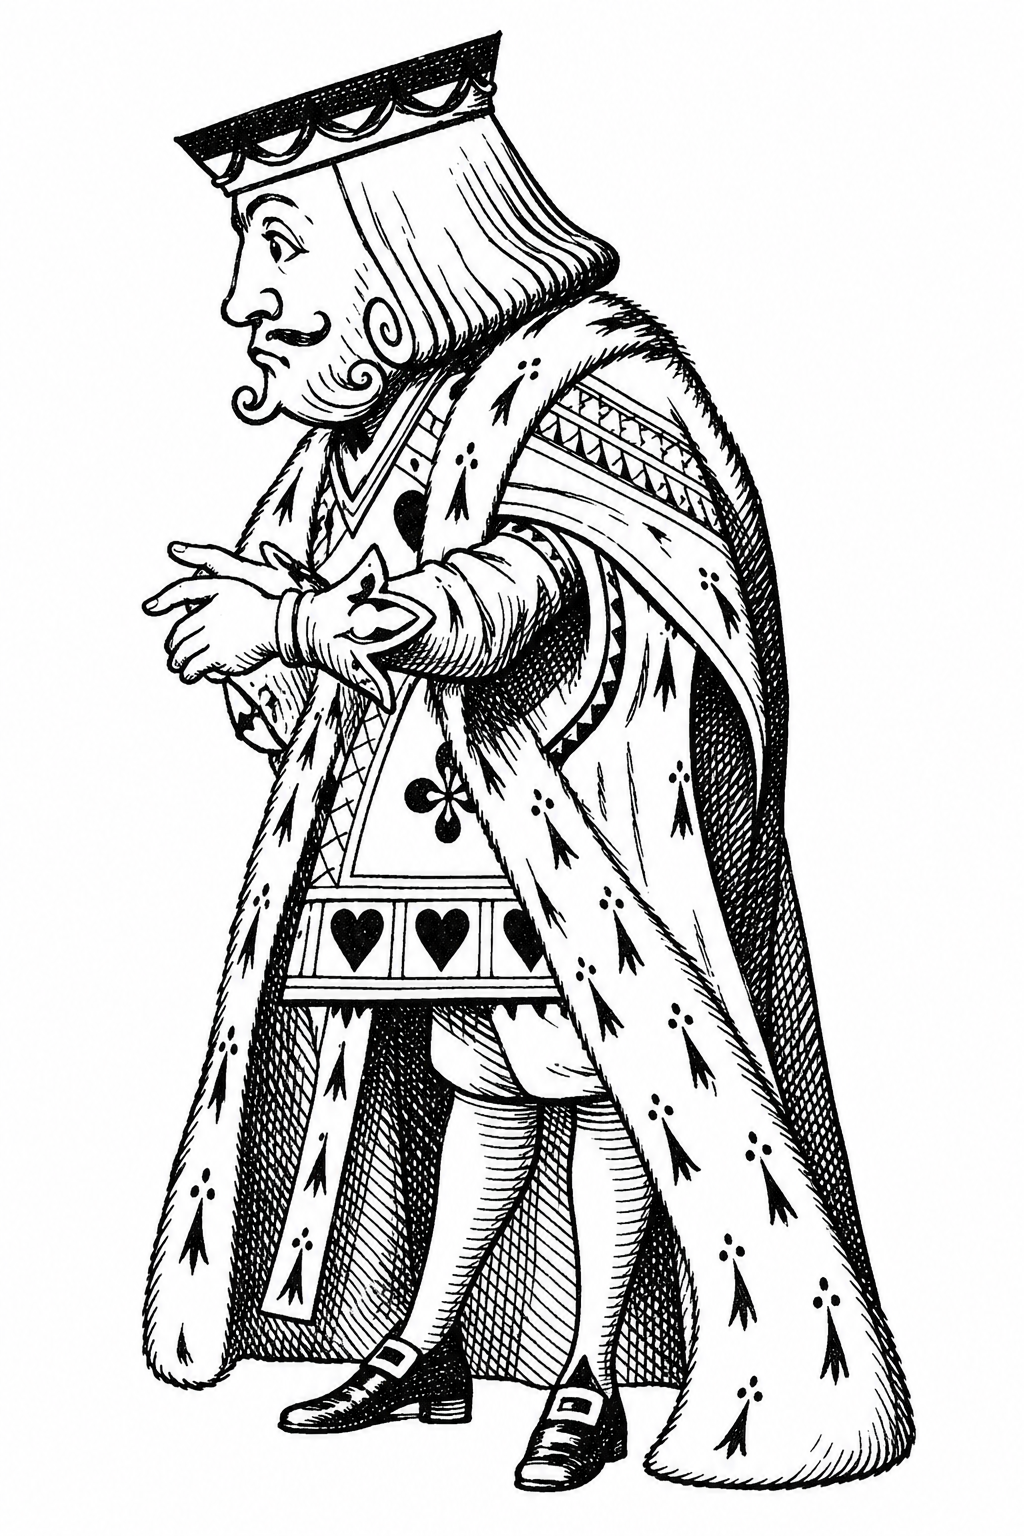
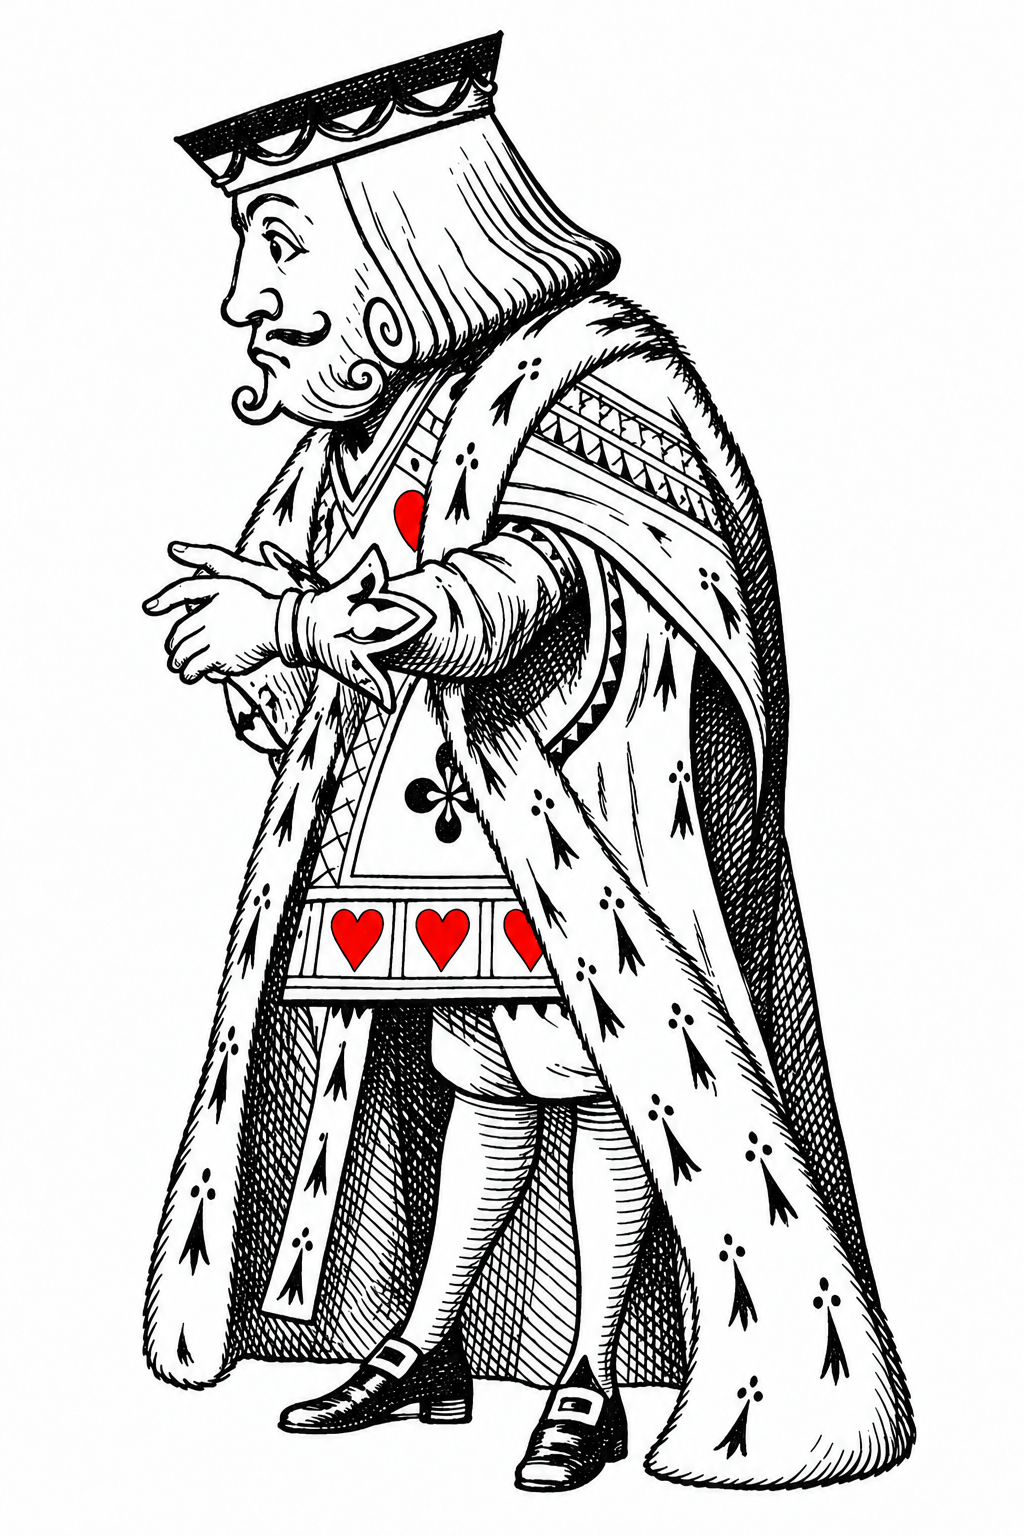
Court cards (VIII-XII): the Queen, King, Knave of Hearts and the executioner, all poses, hearts red (AI by API; tools/ch8_art.py keeps colour)
Claude-Session: https://claude.ai/code/session_01JLwjHTre9qSRtmM6Ke648R

diff --git a/src/main.js b/src/main.js
@@ -64,7 +64,7 @@ async function main() {
     'hall/floor', 'hall/lamp', 'hall/curtain', 'hall/door_frame', 'hall/door_leaf',
     'props/key', 'props/bottle', 'props/cake', 'props/box', 'props/fan', // tools/small_props.py
     'ch1/leaf_heap', 'ch1/alice_land', 'ch1/garden', 'ch1/rabbit_run_away', 'ch1/rabbit_watch', 'ch1/rabbit_trot',
-    'walls/shaft_side', 'walls/passage', 'walls/passage_floor', 'walls/passage_ceiling', 'walls/hall', 'walls/hall_ceiling', 'ch5/caterpillar_sit', 'ch6/cheshire_bough', 'ch6/cheshire_bough_empty', 'ch6/cheshire_grin', 'ch6/cheshire_paw', ...['hatter_sit_stare', 'hatter_sit_riddle', 'hatter_sit_watch', 'hatter_cup', 'hatter_pale', 'hatter_bite', 'hatter_tremble', 'hatter_knee', 'hatter_run', 'marchhare_sit', 'marchhare_dip', 'dormouse_sleep', 'dormouse_talk'].map((n) => `ch7/${n}`), 'vignettes/axis', 'vignettes/pigs', 'ch6/cheshire_hearth', ...['fish_footman', 'frog_footman', 'frog_footman_sit', 'footmen_bow', 'cook_stir', 'cook_throw', 'baby_starfish', 'baby_snout', 'pig_trot', 'kitchen_back', 'kitchen_side', 'little_house', 'march_hare_house', ...['irons', 'saucepan', 'saucepan2', 'pan', 'plate', 'plate2', 'plate3', 'dish'].map((n) => `thrown_${n}`)].map((n) => `ch6/${n}`),
+    'walls/shaft_side', 'walls/passage', 'walls/passage_floor', 'walls/passage_ceiling', 'walls/hall', 'walls/hall_ceiling', 'ch5/caterpillar_sit', 'ch6/cheshire_bough', 'ch6/cheshire_bough_empty', 'ch6/cheshire_grin', 'ch6/cheshire_paw', ...['queen_stand', 'queen_point', 'queen_flush', 'queen_stamp', 'queen_folded', 'queen_specs', 'queen_purple', 'king_stand', 'king_judge', 'king_judge_specs', 'king_judge_fold', 'king_judge_point', 'king_judge_pale', 'knave_carry', 'knave_stand', 'knave_chains', 'executioner'].map((n) => `ch8/${n}`), ...['hatter_sit_stare', 'hatter_sit_riddle', 'hatter_sit_watch', 'hatter_cup', 'hatter_pale', 'hatter_bite', 'hatter_tremble', 'hatter_knee', 'hatter_run', 'marchhare_sit', 'marchhare_dip', 'dormouse_sleep', 'dormouse_talk'].map((n) => `ch7/${n}`), 'vignettes/axis', 'vignettes/pigs', 'ch6/cheshire_hearth', ...['fish_footman', 'frog_footman', 'frog_footman_sit', 'footmen_bow', 'cook_stir', 'cook_throw', 'baby_starfish', 'baby_snout', 'pig_trot', 'kitchen_back', 'kitchen_side', 'little_house', 'march_hare_house', ...['irons', 'saucepan', 'saucepan2', 'pan', 'plate', 'plate2', 'plate3', 'dish'].map((n) => `thrown_${n}`)].map((n) => `ch6/${n}`),
     ...['duchess_nurse', 'duchess_toss', 'duchess_fling', 'duchess9_arm', 'duchess9_tremble', 'duchess9_run'].map((n) => `ch6/${n}`),
     ...['sit', 'sob', 'count', 'hide', 'dance', 'sing', 'yawn'].map((n) => `ch9/mockturtle_${n}`),
     ...['sit', 'asleep', 'walk', 'paws', 'hide', 'dance', 'bound'].map((n) => `ch9/gryphon_${n}`), 'vignettes/dinah', 'vignettes/bats', 'vignettes/stairs', 'vignettes/globe', 'vignettes/histories', 'vignettes/poker', 'vignettes/knife', 'vignettes/poison', 'vignettes/candle', 'vignettes/telescope', 'vignettes/croquet', // tools/walls.py // tools/ch1_art.py
@@ -255,19 +255,15 @@ async function main() {
     // Chapter VIII placeholders: the cards (props8.js), coloured like real cards (owner, 2026-10-11).
     ...Object.fromEntries([['two', 2], ['five', 5], ['seven', 7]].map(([name, rank]) => [name, new Puppet(Object.fromEntries(
       ['stand', 'paint', 'bow', 'kneel', 'run'].map((p) => [p, drawn(card({ suit: 'spades', rank }, p), 0.28)])), 0.28)])),
-    queen: new Puppet(Object.fromEntries([...['stand', 'point', 'flush', 'stamp', 'folded'].map((p) => [p, drawn(card({ suit: 'hearts', rank: 'queen' }, p), 0.32)]),
-      ['specs', drawn(card({ suit: 'hearts', rank: 'queen', specs: true }, 'stand'), 0.32)], ['purple', drawn(card({ suit: 'hearts', rank: 'queen', face: 'purple' }, 'point'), 0.32)]]), 0.32),
+    // The court cards (AI drawings with their hearts red, tools/ch8_art.py; px = height in source pixels).
+    queen: new Puppet(Object.fromEntries([['stand', 1509], ['point', 1460], ['flush', 1507], ['stamp', 1494], ['folded', 1509], ['specs', 1508], ['purple', 1509]]
+      .map(([p, px]) => [p, art(`ch8/queen_${p}`, 0.34 * px / 1509)])), 0.34),
     // The King: as judge in Chapters XI and XII, his crown over his wig; spectacles; arms folded; pale.
-    king: new Puppet({
-      stand: drawn(card({ suit: 'hearts', rank: 'king' }, 'stand'), 0.32),
-      judge: drawn(card({ suit: 'hearts', rank: 'king', wig: true }, 'stand'), 0.32),
-      judgeSpecs: drawn(card({ suit: 'hearts', rank: 'king', wig: true, specs: true }, 'stand'), 0.32),
-      judgeFold: drawn(card({ suit: 'hearts', rank: 'king', wig: true }, 'folded'), 0.32),
-      judgePoint: drawn(card({ suit: 'hearts', rank: 'king', wig: true }, 'point'), 0.32),
-      judgePale: drawn(card({ suit: 'hearts', rank: 'king', wig: true, face: 'pale' }, 'stand'), 0.32),
-    }, 0.32),
-    knave: new Puppet({ carry: drawn(card({ suit: 'hearts', rank: 'knave' }, 'carry'), 0.3), stand: drawn(card({ suit: 'hearts', rank: 'knave' }, 'stand'), 0.3), chains: drawn(card({ suit: 'hearts', rank: 'knave', chains: true }, 'stand'), 0.3) }, 0.3),
-    executioner: new Puppet({ axe: drawn(card({ suit: 'spades', rank: 'executioner' }, 'axe'), 0.32) }, 0.32),
+    king: new Puppet(Object.fromEntries([['stand', 'king_stand', 1467], ['judge', 'king_judge', 1475], ['judgeSpecs', 'king_judge_specs', 1485],
+      ['judgeFold', 'king_judge_fold', 1473], ['judgePoint', 'king_judge_point', 1471], ['judgePale', 'king_judge_pale', 1484]]
+      .map(([p, n, px]) => [p, art(`ch8/${n}`, 0.34 * px / 1475)])), 0.34),
+    knave: new Puppet(Object.fromEntries([['carry', 1432], ['stand', 1429], ['chains', 1429]].map(([p, px]) => [p, art(`ch8/knave_${p}`, 0.31 * px / 1430)])), 0.31),
+    executioner: new Puppet({ axe: art('ch8/executioner', 0.33) }, 0.33),
     // Chapter IX placeholders (props9.js).
     // The Gryphon (tools/ch9_art.py): the upright drawings scaled by their px; the wide ones by eye.
     gryphon: new Puppet(Object.fromEntries([['sit', 0.38, false], ['paws', 0.38 * 1495 / 1519, false], ['hide', 0.38 * 1507 / 1519, false],

diff --git a/src/scenes/evidence.js b/src/scenes/evidence.js
@@ -206,7 +206,7 @@ export const waking = {
     const ghosts = [
       ghost(mouseWalk(), 0.3, -2.3, -2.2, T.mouse, reality(0.9)),
       ghost(ai['ch7/hatter_sit_stare'], 0.9, -0.9, -2.9, T.teacups, T.bells), ghost(ai['ch7/marchhare_sit'], 0.85, -0.3, -3.0, T.teacups, T.bells), ghost(teapot(), 0.35, -0.6, -2.6, T.teacups, T.bells),
-      ghost(card({ suit: 'hearts', rank: 'queen' }, 'point'), 1.1, 0.5, -2.6, T.queen, reality(0.3)),
+      ghost(ai['ch8/queen_point'], 1.1, 0.5, -2.6, T.queen, reality(0.3)),
       ghost(ai['ch6/duchess_nurse'], 1.1, -4.3, -2.5, T.pig, reality(0.55)), ghost(ai['ch6/baby_snout'], 0.35, -3.9, -2.3, T.pig, reality(0.55)),
       ghost(ai['ch9/gryphon_walk'], 0.75, -1.6, -3.3, T.gryphon, reality(0.6)),
       ghost(lizard('stand'), 0.5, -1.9, -2.1, T.gryphon + 1.5, reality(0.7)),

diff --git a/tools/ch8_art.py b/tools/ch8_art.py
@@ -1,0 +1,63 @@
+"""The court cards (Chapters VIII-XII): the Queen, King, Knave of Hearts and the executioner.
+
+They are drawn with their hearts already flat red (and the Queen's and King's face flushes in
+colour), so this cut-out keeps colour: ink and white are paper-tinted as usual, coloured pixels
+keep their colour, and playing-card red is snapped to the game's suit red (SPOT.suitRed).
+Prints each figure's height in source pixels (px) for scaling poses alike.
+
+Usage: python3 tools/ch8_art.py   -> public/art/ai/ch8/<name>.webp
+"""
+import os
+
+import numpy as np
+from PIL import Image, ImageFilter
+from scipy import ndimage as ndi
+
+OUT = "public/art/ai/ch8"
+PAPER = np.array([0xEF, 0xE9, 0xDA], np.float32)
+SUIT_RED = np.array([0xC8, 0x22, 0x22], np.float32)
+NAMES = ["queen_stand", "queen_point", "queen_flush", "queen_stamp", "queen_folded", "queen_specs", "queen_purple",
+         "king_stand", "king_judge", "king_judge_specs", "king_judge_fold", "king_judge_point", "king_judge_pale",
+         "knave_carry", "knave_stand", "knave_chains", "executioner"]
+
+
+CRIMSON = np.array([0xA3, 0x12, 0x3A], np.float32)  # "turned crimson with fury" (SPOT.crimson)
+
+
+def cut(path, red_as=SUIT_RED):
+    rgb = np.asarray(Image.open(path).convert("RGB"), np.float32)
+    g = rgb.mean(-1)
+    mx, mn = rgb.max(-1), rgb.min(-1)
+    sat = (mx - mn) / np.maximum(mx, 1)
+    ink = (g < 225) | (sat > 0.2)
+    disk = np.hypot(*np.mgrid[-2:3, -2:3]) <= 2
+    ink = ndi.binary_closing(ink, structure=disk, border_value=0)
+    lab, _ = ndi.label(~ink)
+    border = np.unique(np.concatenate([lab[0], lab[-1], lab[:, 0], lab[:, -1]]))
+    fg = ~np.isin(lab, border[border > 0])
+    out = g[..., None] / 255.0 * PAPER
+    col = sat > 0.2
+    red = col & (rgb[..., 0] > 120) & (rgb[..., 1] < 0.55 * rgb[..., 0]) & (rgb[..., 2] < 0.55 * rgb[..., 0])
+    # Coloured pixels keep their colour, laid on the paper; card red snapped to the suit red,
+    # keeping the drawing's shading (lightness) so hatched hearts still show their lines.
+    out[col] = rgb[col] * (PAPER / 255.0)
+    shade = (rgb[..., 0] / 255.0)[..., None]
+    out[red] = (red_as * np.clip(shade * 1.15, 0.3, 1.0))[red]
+    alpha = Image.fromarray((fg * 255).astype(np.uint8)).filter(ImageFilter.GaussianBlur(0.8))
+    ys, xs = np.nonzero(fg)
+    box = (max(0, xs.min() - 2), max(0, ys.min() - 2), min(fg.shape[1], xs.max() + 3), min(fg.shape[0], ys.max() + 3))
+    img = Image.fromarray(out.astype(np.uint8), "RGB").convert("RGBA")
+    img.putalpha(alpha)
+    return img.crop(box)
+
+
+def main():
+    os.makedirs(OUT, exist_ok=True)
+    for n in NAMES:
+        img = cut(f"source/ai/{n}.png", CRIMSON if n == "queen_flush" else SUIT_RED)
+        print(f"{n}: px {img.height}")
+        img.resize((600, round(img.height * 600 / img.width)), Image.LANCZOS).save(f"{OUT}/{n}.webp", quality=90, method=6)
+
+
+if __name__ == "__main__":
+    main()

diff --git a/docs/HANDOFF.md b/docs/HANDOFF.md
@@ -22,7 +22,8 @@ Updated: 2026-10-13 (end of session 3: Chapters I–II art in, Chapter III's Ali
   - **Chapter V**: the Caterpillar (blue), also at Chapter IV's end. **Chapter VI**: the Cheshire Cat in the wood (on his bough, the empty bough, the grin alone); the Cat on the kitchen hearth (prompt 22), the Duchess (all her poses, prompts 14–16), the Footmen (10–13: the letter is in the Fish-Footman's drawing, the bow is one drawing of both), the Cook (17, 18), the baby and the pig (19–21; the snout drawing also stands for the pig in its clothes), the kitchen's back wall (23; the side walls are still drawn in code). Alice's 9 poses (2026-10-14: laughing, peeping, knocking, sneezing, jumping in terror, catching and holding the baby, carrying it, the pig, from behind under the Cat). Camera re-directed (2026-10-14): Alice in the picture at least every ~10 s (frame_report). Sets and props done 2026-10-14: the little house (also V), the March Hare's house (also VII), the kitchen's side walls (kitchen made deeper so the camera stays inside), the thrown things. Not needed: the stool (hidden by her skirts, owner), the pepper-box (in the Cook's drawing), a separate bough tree (the Cat's drawing has its bough). The Cat waving and the two thoughts done too: **Chapter VI's art is complete** apart from the extras the owner ruled out.
   - **Chapters IX–X**: the Mock Turtle, every pose (sitting, sobbing into a handkerchief, counting, hiding his face, dancing, singing, yawning; the rock taken out of the sitting drawing so he sits on the set's ledge; puppet `drop` lets his tail hang below his hooves), and the Duchess in Chapter IX (arm in arm, trembling, running). `tools/ch9_art.py` processes both and prints each drawing's height and drop. The Gryphon, every pose (sitting, asleep, walking, paws up, hiding his face, dancing, bounding), 2026-10-14. Chapter XII's dream shows the new Duchess, baby, Gryphon and Mock Turtle.
   - **Chapter VII (and XI, XII)**: the Hatter (sitting: staring, riddle, watch; as a witness: teacup, pale, biting the cup, shoes shaken off, on one knee, running), the March Hare (sitting, dipping the watch), the Dormouse (asleep, telling his story), 2026-10-14 (`tools/ch7_art.py`). The safety filter blocks some Hatter prompts at random: reword and retry.
-  - Still to generate (owner, 2026-10-14: every character): the card people (VIII–XII), Bill, the guinea-pigs, Pat, the puppy (IV), the Pigeon (V), the Owl, Magpie, Canary, crabs (III), flamingos, hedgehogs (VIII), the jurors (XI), and Alice's poses for IV, V, VII–XII.
+  - **Court cards (VIII–XII)**: the Queen (7 poses incl. crimson and purple faces), the King (standing; as judge ×5), the Knave (carrying the crown, standing, in chains), the executioner (Ace of Spades), 2026-10-14.
+  - Still to generate (owner, 2026-10-14: every character): the numbered card people (soldiers, gardeners, courtiers, children, guests, officers), Bill, the guinea-pigs, Pat, the puppy (IV), the Pigeon (V), the Owl, Magpie, Canary, crabs (III), flamingos, hedgehogs (VIII), the jurors (XI), and Alice's poses for IV, V, VII–XII.
   - The rest of the book is placeholder art drawn in code.
 - **Alice's walk**: two matching steps from one drawing (`alice_walk_pair`); keep it. **Do not generate the walk cycle** (owner, 2026-10-13: the owner will make it later; the API attempts got the arms and legs wrong).
 - **Chapter I's audio starts with 4.14 s of added silence** (owner, 2026-10-14: a 5 s hold in the theatre seat before "CHAPTER I"; `lead_silence` in ch01_words.json, all times shifted). If `tools/narration.py`/`forced_align.py` is ever rerun for Chapter I, add the silence and the shift again (original audio: `ffmpeg -ss 4.14`).
@@ -69,7 +70,7 @@ Updated: 2026-10-13 (end of session 3: Chapters I–II art in, Chapter III's Ali
 - Show the owner each new character's first picture before putting it in the game.
 
 ## When art arrives
-- **Card people** (owner, 2026-10-11): numbered cards arrive as bodies with a plain white face; print each card's pips on them in code (reuse `PIP_LAYOUT` and `suitColour` in props8.js, mapped onto the drawn face). Court cards and the court's hearts arrive with solid black suit signs: recolour the solid black heart and diamond shapes red when processing (a new step for `tools/whitecut.py` or a small tool), leaving clubs and spades black.
+- **Card people** (owner, 2026-10-11): numbered cards arrive as bodies with a plain white face; print each card's pips on them in code (reuse `PIP_LAYOUT` and `suitColour` in props8.js, mapped onto the drawn face). **Court cards by API (2026-10-14):** ask for the hearts (and diamonds) filled flat red in the drawing (if they come out black, a second pass "redraw exactly, every heart filled flat red"); `tools/ch8_art.py` keeps colour and snaps card red to the suit red. (Detecting solid black hearts in code proved unreliable.)
 - **'Direct' Tenniel figures** are being generated as AI from the plates (owner, 2026-10-11); scans are an optional upgrade.
 - The owner may send many images and say "don't process yet": just save each to `source/ai/` under its prompt's name, commit and push, until told to process.
 - Uploads that arrive mid-turn aren't saved; ask the owner to resend as a normal message. Screenshots are low quality: ask for the downloaded original.

diff --git a/PROVENANCE.md b/PROVENANCE.md
@@ -158,6 +158,7 @@ Every shipped asset is listed here with its source. AI-generated or AI-modified 
 | ai_ch6_sets | `public/art/ai/ch6/little_house.webp`, `march_hare_house.webp`, `kitchen_side.webp`, `thrown_*.webp` | AI | Chapter VI prompts 25, 32, 33 and the kitchen's side wall; originals `source/ai/little_house.png` (door from Tenniel's plate 6.1, `source/plates/tenniel_w06-1_door_only.png`), `march_hare_house.png`, `kitchen_side.png`, `thrown_things.png` | OpenAI gpt-image-2.5-sunburst via the API (generated by Claude Code, 2026-10-14) | Whole images generated. Cut out; the thrown things split into pieces (`tools/ch6_art.py`). Used in Chapters V, VI and VII. | 2026-10-14 | Owner (approved), Claude Code (generated, processed) |
 | ai_ch6_last | `public/art/ai/ch6/cheshire_paw.webp`, `public/art/ai/vignettes/axis.webp`, `pigs.webp` | AI | Chapter VI prompt 29 (the Cat waving, redrawn from `source/ai/cheshire_bough.png` on the same canvas) and the chapter's two thoughts; originals `source/ai/cheshire_paw.png`, `vignette_axis.png`, `vignette_pigs.png` | OpenAI gpt-image-2.5-sunburst via the API (generated by Claude Code, 2026-10-14) | Whole images generated. Cut out on the full canvas / fitted to the thought oval (`tools/ch6_art.py`). Used in Chapter VI. | 2026-10-14 | Owner (approved), Claude Code (generated, processed) |
 | ai_ch7_tea_party | `public/art/ai/ch7/*.webp` (the Hatter ×9, the March Hare ×2, the Dormouse ×2) | AI | Chapter VII prompts (the Hatter, March Hare, Dormouse) and Chapter XI's Hatter; first drawings `source/ai/hatter_stand.png`, `marchhare_stand.png`, `dormouse_sleep.png` from Tenniel's plates 7.1–7.3 cropped to each (`source/plates/tenniel_w07-*_only.png`), the other poses from those | OpenAI gpt-image-2.5-sunburst via the API (generated by Claude Code, 2026-10-14) | Whole images generated. Cut out (`tools/ch7_art.py`). Used in Chapters VII, XI and XII. | 2026-10-14 | Owner (approved), Claude Code (generated, processed) |
+| ai_court_cards | `public/art/ai/ch8/*.webp` (the Queen ×7, the King ×6, the Knave ×3, the executioner) | AI | Chapter VIII–XII prompts; first drawings `source/ai/queen_stand.png`, `king_stand.png` from Tenniel's plates 8.2 and 8.4 cropped to each (`source/plates/tenniel_w08-*_only.png`), the other poses from those; hearts filled red and face flushes coloured by the model (a second pass where needed) | OpenAI gpt-image-2.5-sunburst via the API (generated by Claude Code, 2026-10-14) | Whole images generated. Cut out keeping colour, card red snapped to the suit red (`tools/ch8_art.py`). Used in Chapters VIII–XII. | 2026-10-14 | Owner (approved), Claude Code (generated, processed) |
 | ai_mockturtle_sit | `public/art/ai/ch9/mockturtle_sit.webp` | AI | Chapter IX prompt 14; original in `source/ai/mockturtle_ledge.png`, from Tenniel's plate 9.3 cropped to the Mock Turtle (`source/plates/tenniel_w09-3_mock_turtle_only.png`); the rock then removed in a second generation (`source/ai/mockturtle_ledge_norock.png`) | OpenAI gpt-image-2.5-sunburst via the API (generated by Claude Code, 2026-10-14) | Whole image generated. Cut out from white (`tools/ch9_art.py`). Used in Chapters IX and X (sitting). | 2026-10-14 | Owner (approved), Claude Code (generated, processed) |
 | ai_duchess_poses | `public/art/ai/ch6/duchess_toss.webp`, `duchess_fling.webp`, `duchess9_arm.webp`, `duchess9_tremble.webp`, `duchess9_run.webp` | AI | Chapter VI prompts 15, 16; Chapter IX prompts 6, 7 (two images); originals in `source/ai/` under the same names, generated from `source/ai/duchess_nurse.png` with Tenniel's plates 6.2 and 9.1 cropped to the Duchess (`source/plates/tenniel_w06-2_duchess_only.png`, `tenniel_w09-1_duchess_only.png`) | OpenAI gpt-image-2.5-sunburst via the API (generated by Claude Code, 2026-10-14) | Whole images generated. Cut out from white (`tools/ch9_art.py`). Used in Chapters VI (lullaby, flinging the baby, hurrying out) and IX (arm in arm, trembling, running away). | 2026-10-14 | Owner (approved), Claude Code (generated, processed) |
 | ai_mockturtle_poses | `public/art/ai/ch9/mockturtle_sob.webp`, `_count`, `_hide`, `_dance`, `_sing`, `_yawn` | AI | Chapter IX prompt 15 (three images); Chapter X prompts 6, 7 (one image each of dancing, singing, yawning); originals in `source/ai/` under the same names, generated from `source/ai/mockturtle_ledge_norock.png` with Tenniel's plates 9.3 and 10.1 cropped to the Mock Turtle (`source/plates/tenniel_w09-3_mock_turtle_only.png`, `tenniel_w10-1_mock_turtle_only.png`) | OpenAI gpt-image-2.5-sunburst via the API (generated by Claude Code, 2026-10-14) | Whole images generated. Cut out from white (`tools/ch9_art.py`). Used in Chapters IX and X. | 2026-10-14 | Owner (approved), Claude Code (generated, processed) |

diff --git a/docs/ASSETS_MASTER.md b/docs/ASSETS_MASTER.md
@@ -1,7 +1,7 @@
 # Master Asset List
 Generated by `tools/assets_master.py` from the chapter lists. **Don't edit by hand**: change the chapter list in `docs/ART_PROMPTS.md` (and the reasons in `docs/CHAPTER_NN_ASSETS.md`), then run the script.
 
-**Progress:** 146 of 371 images received. A box is ticked when a file with that name is in `source/ai/`.
+**Progress:** 151 of 371 images received. A box is ticked when a file with that name is in `source/ai/`.
 
 ## How to use this document
 1. Use **one ChatGPT conversation** for everything, so the style and the characters stay the same.
@@ -442,9 +442,9 @@ Background and sources: [CHAPTER_08_ASSETS.md](CHAPTER_08_ASSETS.md). Same conve
 - [ ] **13.** `royal_child.png`: "Two small royal card children jumping merrily along hand in hand. Card faces plain white." (The game prints the hearts, ace to ten.)
 - [ ] **14.** `knave.png` (8.2): "The Knave of Hearts from this plate, carrying the King's crown on a velvet cushion."
 - [ ] **15.** `king.png` (8.2, 8.4): "The King of Hearts from these plates, full figure."
-- [ ] **16.** `queen_point.png` (8.2): "The Queen of Hearts from this plate, pointing and shouting 'Off with her head!'"
-- [ ] **17.** `queen_stamp.png`: "The same Queen stamping about in a furious passion, shouting."
-- [ ] **18.** `executioner.png` (8.4): "The executioner from this plate, a card with a big axe. He is the Ace of Spades: one large ornate spade in the middle of his card, as a solid black shape."
+- [x] **16.** `queen_point.png` (8.2): "The Queen of Hearts from this plate, pointing and shouting 'Off with her head!'"
+- [x] **17.** `queen_stamp.png`: "The same Queen stamping about in a furious passion, shouting."
+- [x] **18.** `executioner.png` (8.4): "The executioner from this plate, a card with a big axe. He is the Ace of Spades: one large ornate spade in the middle of his card, as a solid black shape."
 - [ ] **19.** `guests.png`: "Seven court-card guests in procession, each separate on white: the King and Queen of Clubs, the King and Queen of Diamonds, the King and Queen of Spades, and the Knave of Spades. Victorian court-card costume; each card's suit signs as solid black shapes."
 
 ### Other characters
@@ -553,10 +553,10 @@ Background and sources: [CHAPTER_11_ASSETS.md](CHAPTER_11_ASSETS.md). Same conve
 - [ ] **4.** `alice11_named.png`: "Same Alice, full figure: startled, hand to her chest, hearing her own name called out."
 
 ### Characters (attach the plate named)
-- [ ] **5.** `king_judge.png` (frontispiece): "The King of Hearts as judge, his crown on top of a great judge's wig, seated, from this plate. White background."
+- [x] **5.** `king_judge.png` (frontispiece): "The King of Hearts as judge, his crown on top of a great judge's wig, seated, from this plate. White background."
 - [ ] **6.** `king_judge_frown.png`: "The same King folding his arms and frowning till his eyes are nearly out of sight; a second image putting on spectacles."
 - [ ] **7.** `queen_throne.png`: "The Queen of Hearts seated on a throne, staring hard through spectacles."
-- [ ] **8.** `knave_chains.png` (frontispiece): "The Knave of Hearts standing in chains, as in this plate."
+- [x] **8.** `knave_chains.png` (frontispiece): "The Knave of Hearts standing in chains, as in this plate."
 - [ ] **9.** `rabbit_herald.png` (11.1): "The White Rabbit from this plate, alone, as herald, blowing a trumpet. Then a second image reading from an unrolled parchment scroll."
 - [ ] **10.** `hatter_witness.png` (11.2): "The Hatter from this plate, alone, teacup in one hand, bread-and-butter in the other. A second image biting a piece out of the teacup."
 - [x] **11.** `hatter_tremble.png`: "The same Hatter trembling so hard that his shoes fly off; a second image down on one knee."
